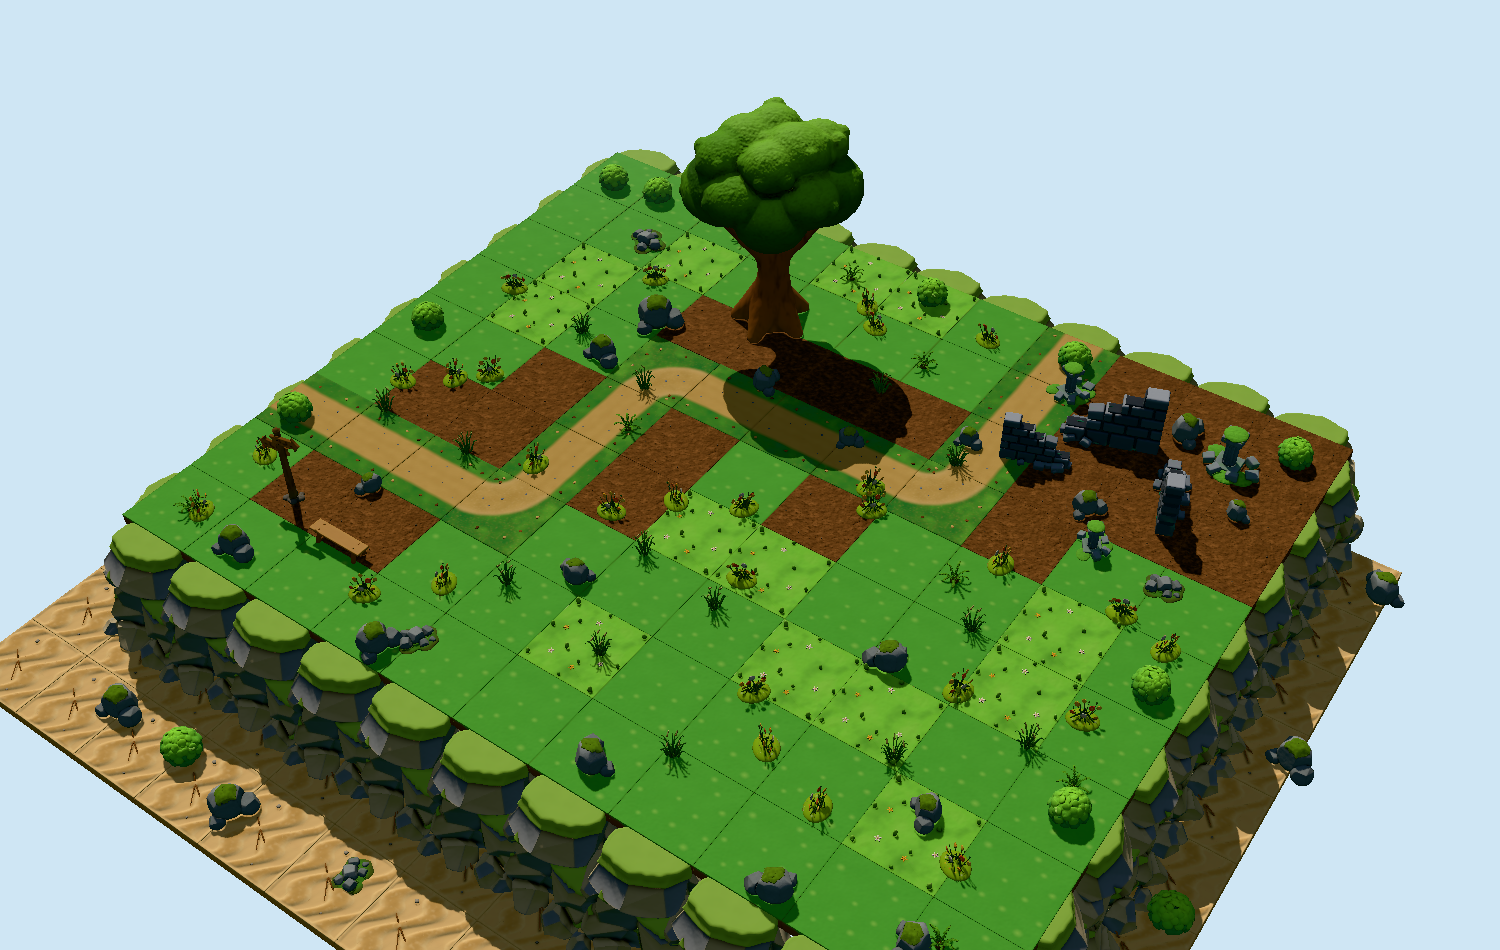
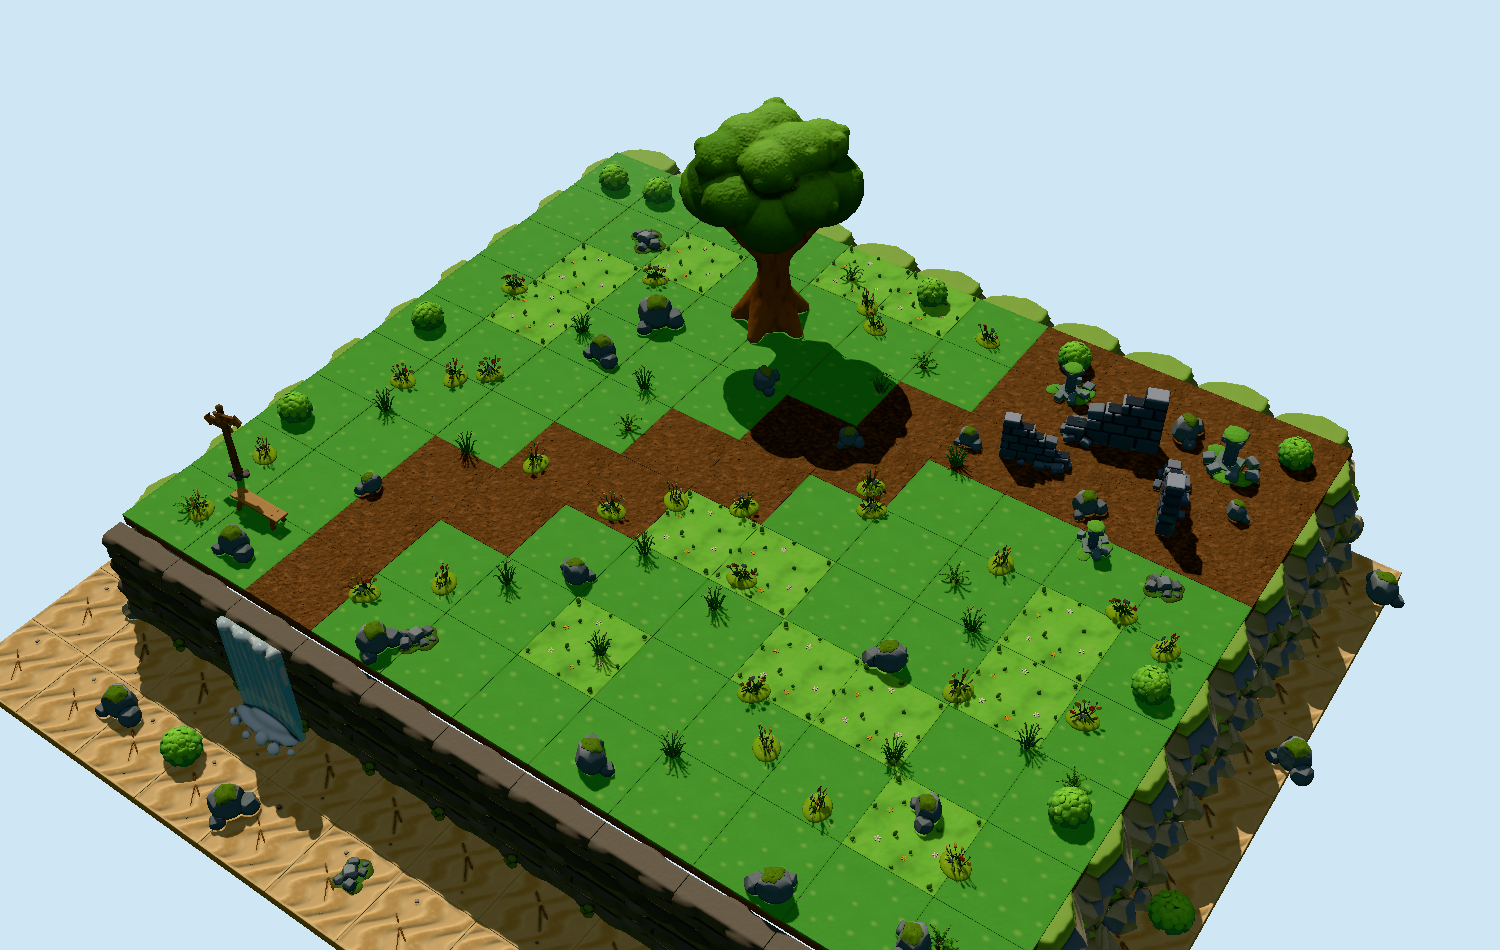
feat(maps): cliff map at 7.0 with rock-wall and waterfall-sheet

Changed region(s): [[0.0613, 0.3053, 0.7667, 1.0]]

diff --git a/scenes/maps/cliff.ts b/scenes/maps/cliff.ts
@@ -8,7 +8,7 @@ export function places(): Place[] {
   { asset: 'grass-ground', at: [-10, 0, -2] },
   { asset: 'grass-ground', at: [-10, 0, 0] },
   { asset: 'grass-ground', at: [-10, 0, 2] },
-  { asset: 'footpath-straight', at: [-10, 0, 4], yaw: 90 },
+  { asset: 'grass-ground', at: [-10, 0, 4] },
   { asset: 'grass-ground', at: [-10, 0, 6] },
   { asset: 'grass-ground', at: [-10, 0, 8] },
   { asset: 'grass-ground', at: [-8, 0, -8] },
@@ -16,32 +16,32 @@ export function places(): Place[] {
   { asset: 'meadow-ground', at: [-8, 0, -4] },
   { asset: 'meadow-ground', at: [-8, 0, -2] },
   { asset: 'grass-ground', at: [-8, 0, 0] },
-  { asset: 'dirt-ground', at: [-8, 0, 2] },
-  { asset: 'footpath-straight', at: [-8, 0, 4], yaw: 90 },
-  { asset: 'dirt-ground', at: [-8, 0, 6] },
+  { asset: 'grass-ground', at: [-8, 0, 2] },
+  { asset: 'grass-ground', at: [-8, 0, 4] },
+  { asset: 'grass-ground', at: [-8, 0, 6] },
   { asset: 'grass-ground', at: [-8, 0, 8] },
   { asset: 'grass-ground', at: [-6, 0, -8] },
   { asset: 'meadow-ground', at: [-6, 0, -6] },
   { asset: 'grass-ground', at: [-6, 0, -4] },
   { asset: 'grass-ground', at: [-6, 0, -2] },
-  { asset: 'dirt-ground', at: [-6, 0, 0] },
-  { asset: 'dirt-ground', at: [-6, 0, 2] },
-  { asset: 'footpath-straight', at: [-6, 0, 4], yaw: 90 },
+  { asset: 'grass-ground', at: [-6, 0, 0] },
+  { asset: 'grass-ground', at: [-6, 0, 2] },
+  { asset: 'dirt-ground', at: [-6, 0, 4] },
   { asset: 'dirt-ground', at: [-6, 0, 6] },
-  { asset: 'grass-ground', at: [-6, 0, 8] },
+  { asset: 'dirt-ground', at: [-6, 0, 8] },
   { asset: 'grass-ground', at: [-4, 0, -8] },
   { asset: 'grass-ground', at: [-4, 0, -6] },
-  { asset: 'dirt-ground', at: [-4, 0, -4] },
-  { asset: 'footpath-corner', at: [-4, 0, -2], yaw: 270 },
-  { asset: 'footpath-straight', at: [-4, 0, 0] },
-  { asset: 'footpath-straight', at: [-4, 0, 2] },
-  { asset: 'footpath-corner', at: [-4, 0, 4], yaw: 90 },
+  { asset: 'grass-ground', at: [-4, 0, -4] },
+  { asset: 'grass-ground', at: [-4, 0, -2] },
+  { asset: 'grass-ground', at: [-4, 0, 0] },
+  { asset: 'dirt-ground', at: [-4, 0, 2] },
+  { asset: 'dirt-ground', at: [-4, 0, 4] },
   { asset: 'grass-ground', at: [-4, 0, 6] },
   { asset: 'grass-ground', at: [-4, 0, 8] },
   { asset: 'meadow-ground', at: [-2, 0, -8] },
   { asset: 'grass-ground', at: [-2, 0, -6] },
-  { asset: 'dirt-ground', at: [-2, 0, -4] },
-  { asset: 'footpath-straight', at: [-2, 0, -2], yaw: 90 },
+  { asset: 'grass-ground', at: [-2, 0, -4] },
+  { asset: 'grass-ground', at: [-2, 0, -2] },
   { asset: 'dirt-ground', at: [-2, 0, 0] },
   { asset: 'dirt-ground', at: [-2, 0, 2] },
   { asset: 'grass-ground', at: [-2, 0, 4] },
@@ -49,9 +49,9 @@ export function places(): Place[] {
   { asset: 'grass-ground', at: [-2, 0, 8] },
   { asset: 'meadow-ground', at: [0, 0, -8] },
   { asset: 'grass-ground', at: [0, 0, -6] },
-  { asset: 'dirt-ground', at: [0, 0, -4] },
-  { asset: 'footpath-straight', at: [0, 0, -2], yaw: 90 },
-  { asset: 'grass-ground', at: [0, 0, 0] },
+  { asset: 'grass-ground', at: [0, 0, -4] },
+  { asset: 'dirt-ground', at: [0, 0, -2] },
+  { asset: 'dirt-ground', at: [0, 0, 0] },
   { asset: 'meadow-ground', at: [0, 0, 2] },
   { asset: 'grass-ground', at: [0, 0, 4] },
   { asset: 'meadow-ground', at: [0, 0, 6] },
@@ -59,16 +59,16 @@ export function places(): Place[] {
   { asset: 'grass-ground', at: [2, 0, -8] },
   { asset: 'grass-ground', at: [2, 0, -6] },
   { asset: 'dirt-ground', at: [2, 0, -4] },
-  { asset: 'footpath-straight', at: [2, 0, -2], yaw: 90 },
-  { asset: 'dirt-ground', at: [2, 0, 0] },
+  { asset: 'dirt-ground', at: [2, 0, -2] },
+  { asset: 'grass-ground', at: [2, 0, 0] },
   { asset: 'meadow-ground', at: [2, 0, 2] },
   { asset: 'grass-ground', at: [2, 0, 4] },
   { asset: 'grass-ground', at: [2, 0, 6] },
   { asset: 'grass-ground', at: [2, 0, 8] },
-  { asset: 'footpath-straight', at: [4, 0, -8] },
-  { asset: 'footpath-straight', at: [4, 0, -6] },
-  { asset: 'footpath-straight', at: [4, 0, -4] },
-  { asset: 'footpath-corner', at: [4, 0, -2], yaw: 90 },
+  { asset: 'dirt-ground', at: [4, 0, -8] },
+  { asset: 'dirt-ground', at: [4, 0, -6] },
+  { asset: 'dirt-ground', at: [4, 0, -4] },
+  { asset: 'grass-ground', at: [4, 0, -2] },
   { asset: 'grass-ground', at: [4, 0, 0] },
   { asset: 'grass-ground', at: [4, 0, 2] },
   { asset: 'meadow-ground', at: [4, 0, 4] },
@@ -77,7 +77,7 @@ export function places(): Place[] {
   { asset: 'dirt-ground', at: [6, 0, -8] },
   { asset: 'dirt-ground', at: [6, 0, -6] },
   { asset: 'dirt-ground', at: [6, 0, -4] },
-  { asset: 'dirt-ground', at: [6, 0, -2] },
+  { asset: 'grass-ground', at: [6, 0, -2] },
   { asset: 'grass-ground', at: [6, 0, 0] },
   { asset: 'grass-ground', at: [6, 0, 2] },
   { asset: 'meadow-ground', at: [6, 0, 4] },
@@ -145,17 +145,18 @@ export function places(): Place[] {
   { asset: 'desert-ground', at: [12, -3, 8] },
   { asset: 'desert-ground', at: [12, -3, 10] },
   { asset: 'desert-ground', at: [12, -3, 12] },
-  { asset: 'cliff-face', at: [-10, -3.1, 9.2], yaw: -5 },
-  { asset: 'cliff-face', at: [-8, -3.1, 9.2], yaw: 5 },
-  { asset: 'cliff-face', at: [-6, -3.1, 9.2], yaw: -5 },
-  { asset: 'cliff-face', at: [-4, -3.1, 9.2], yaw: 5 },
-  { asset: 'cliff-face', at: [-2, -3.1, 9.2], yaw: -5 },
-  { asset: 'cliff-face', at: [0, -3.1, 9.2], yaw: 5 },
-  { asset: 'cliff-face', at: [2, -3.1, 9.2], yaw: -5 },
-  { asset: 'cliff-face', at: [4, -3.1, 9.2], yaw: 5 },
-  { asset: 'cliff-face', at: [6, -3.1, 9.2], yaw: -5 },
-  { asset: 'cliff-face', at: [8, -3.1, 9.2], yaw: 5 },
-  { asset: 'cliff-face', at: [10, -3.1, 9.2], yaw: -5 },
+  { asset: 'rock-wall', at: [-10, -2.75, 9.35] },
+  { asset: 'rock-wall', at: [-8, -2.75, 9.35] },
+  { asset: 'rock-wall', at: [-6, -2.75, 9.35] },
+  { asset: 'rock-wall', at: [-4, -2.75, 9.35] },
+  { asset: 'rock-wall', at: [-2, -2.75, 9.35] },
+  { asset: 'rock-wall', at: [0, -2.75, 9.35] },
+  { asset: 'rock-wall', at: [2, -2.75, 9.35] },
+  { asset: 'rock-wall', at: [4, -2.75, 9.35] },
+  { asset: 'rock-wall', at: [6, -2.75, 9.35] },
+  { asset: 'rock-wall', at: [8, -2.75, 9.35] },
+  { asset: 'rock-wall', at: [10, -2.75, 9.35] },
+  { asset: 'waterfall-sheet', at: [-6, -3, 9.85], scale: 1.15 },
   { asset: 'cliff-face', at: [10.7, -3.1, -8], yaw: 90 },
   { asset: 'cliff-face', at: [10.7, -3.1, -6], yaw: 98 },
   { asset: 'cliff-face', at: [10.7, -3.1, -4], yaw: 90 },
@@ -212,8 +213,8 @@ export function places(): Place[] {
   { asset: 'boulder', at: [2, 0, 8.2], yaw: 140, scale: 0.8 },
   { asset: 'boulder', at: [6.5, 0, 8.6], yaw: 210, scale: 0.8 },
   { asset: 'boulder', at: [9.2, 0, 8.2], yaw: 280, scale: 0.8 },
-  { asset: 'bench', at: [-6.2, 0, 6.9] },
-  { asset: 'signpost', at: [-8.2, 0, 6.4], yaw: 20 },
+  { asset: 'bench', at: [-8.4, 0, 7.2] },
+  { asset: 'signpost', at: [-9.8, 0, 6.6], yaw: 20 },
   { asset: 'wildflowers', at: [-4.8, 0, 7.6], yaw: 30 },
   { asset: 'wildflowers', at: [-9.6, 0, 7.9], yaw: 120 },
   { asset: 'rock-cluster', at: [-3, 0, 7.9], yaw: 60, scale: 0.8 },

diff --git a/docs/map-mockups/cliff.md b/docs/map-mockups/cliff.md
@@ -4,13 +4,13 @@
 west sides, over a sunken ground ring at y=-3. A worn path enters at the west edge, bends north, runs east
 and exits north. Zones: viewpoint (bench, signpost, SW), lone oak (N-center), ruined watch post (NE).
 
-- grass-ground: 50
-- footpath-straight: 11
+- grass-ground: 63
 - meadow-ground: 13
-- dirt-ground: 22
-- footpath-corner: 3
+- dirt-ground: 23
 - desert-ground: 44
-- cliff-face: 40
+- rock-wall: 11
+- waterfall-sheet: 1
+- cliff-face: 29
 - boulder: 25
 - wildflowers: 28
 - bench: 1
@@ -23,4 +23,4 @@ and exits north. Zones: viewpoint (bench, signpost, SW), lone oak (N-center), ru
 - tall-grass: 14
 - fern: 8
 
-Total: 287. Notes: no waterfall piece exists (missing: waterfall - blue falls down the cliff).
+Total: 288. Notes: no waterfall piece exists (missing: waterfall - blue falls down the cliff).
